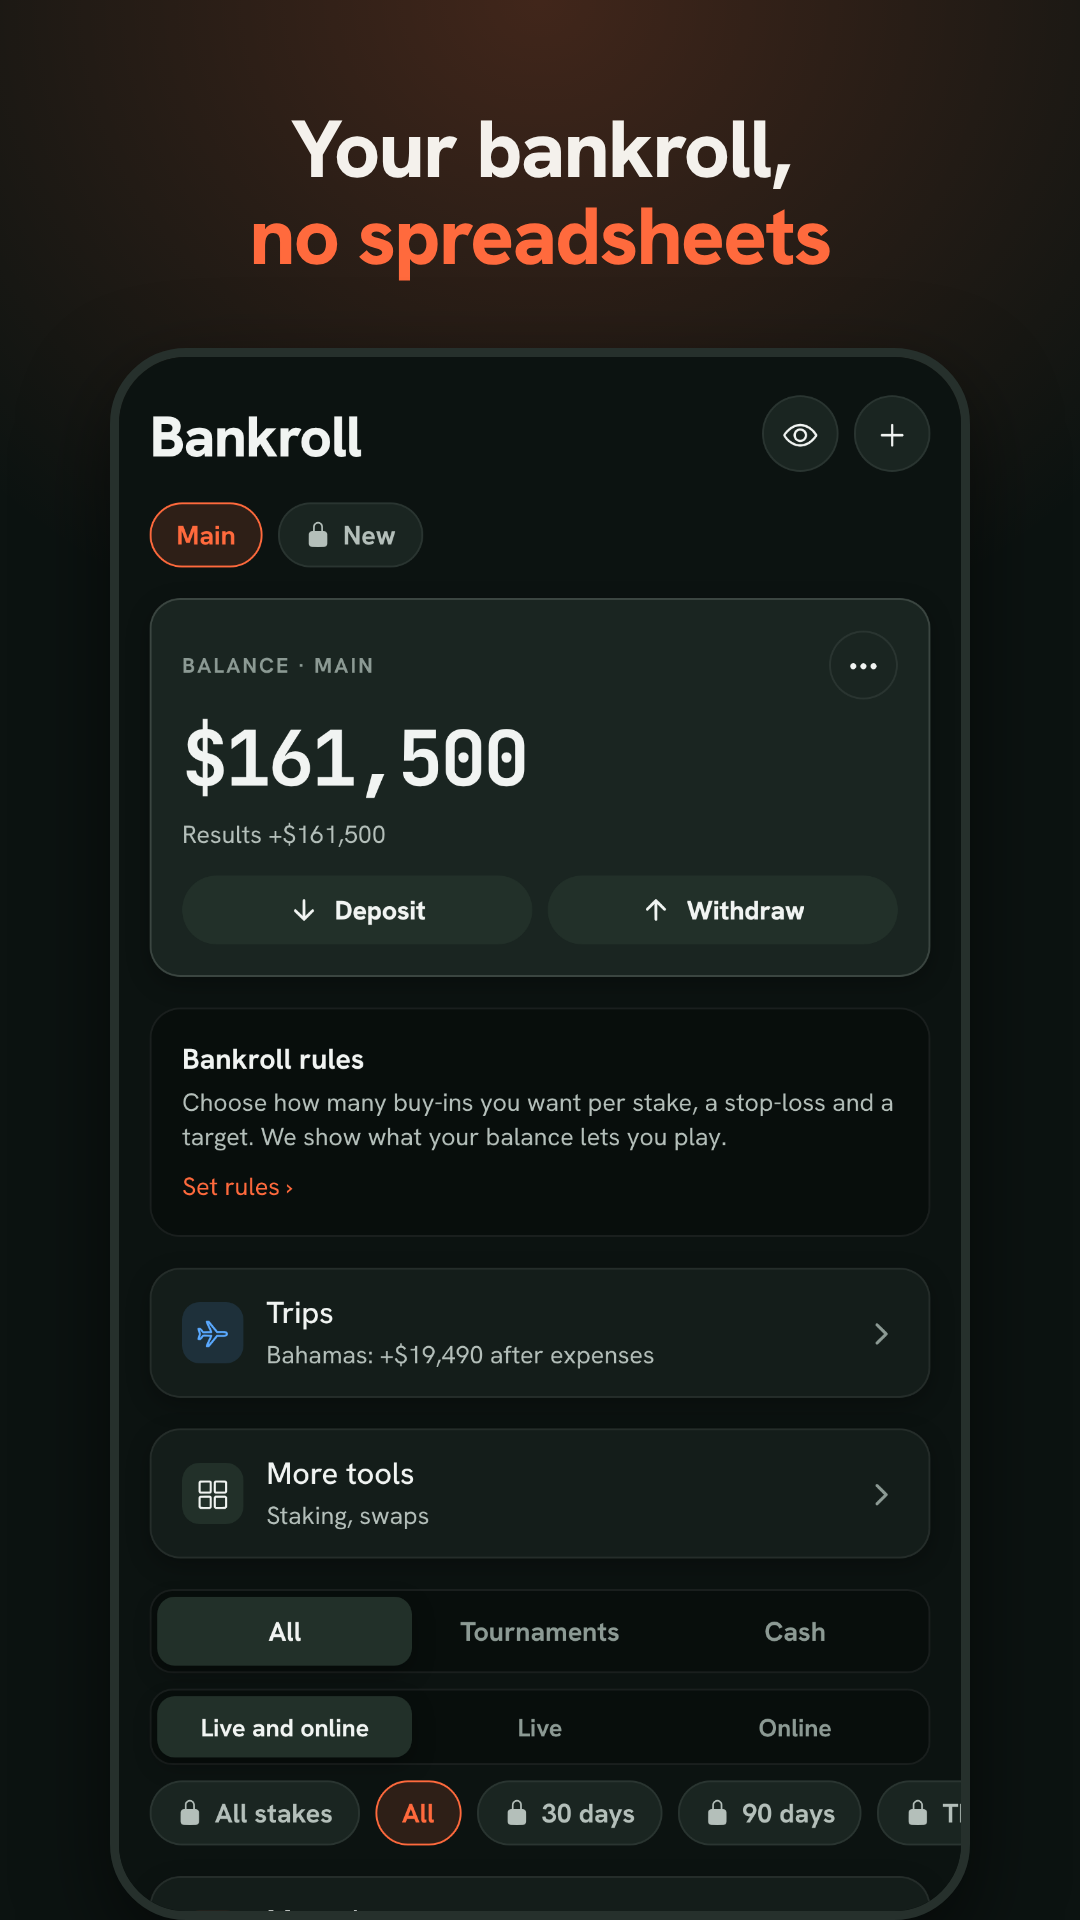
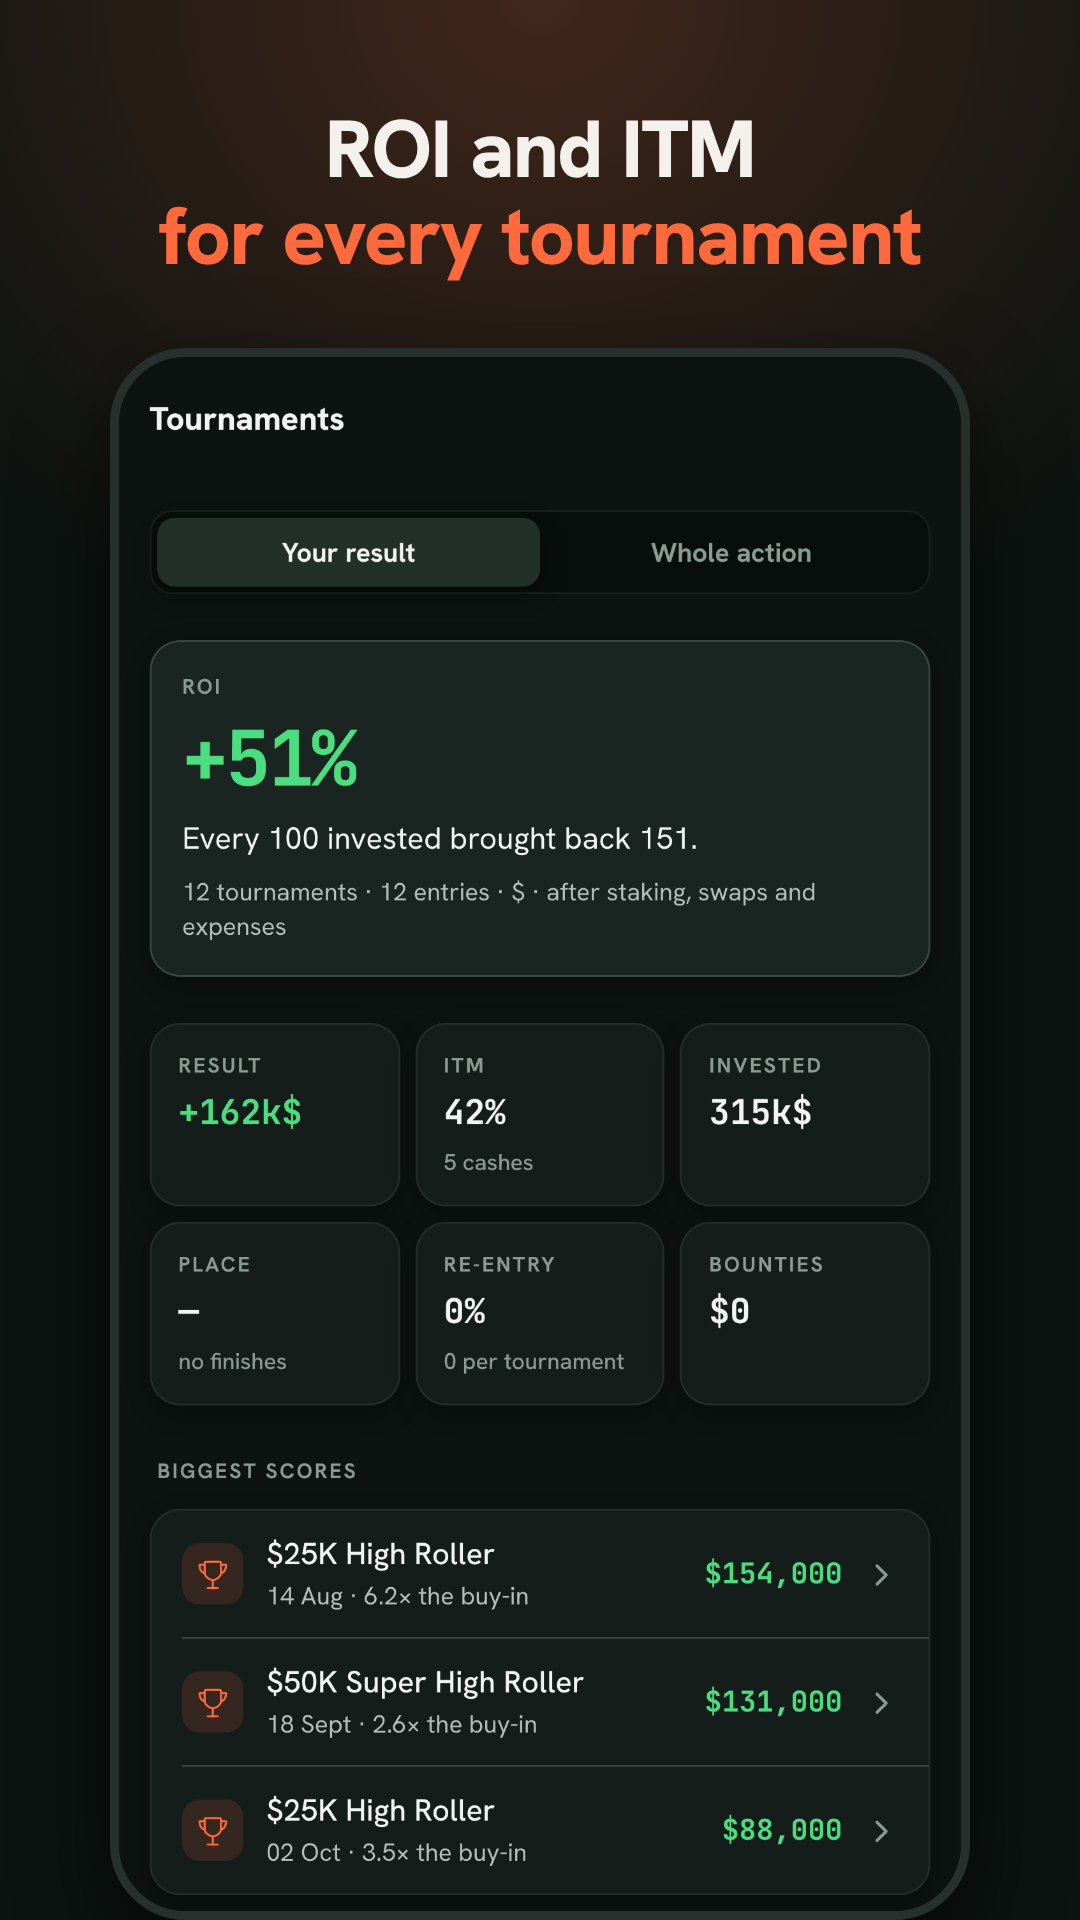
Screenshots from 179da6c: tournament stats and festival recap frames; hide web-only hints; App Store featuring nomination ready to submit
Claude-Session: https://claude.ai/code/session_0177dvFNXGEXkTvQzutfngpT

diff --git a/store/featuring/nomination-apple-december.md b/store/featuring/nomination-apple-december.md
@@ -1,0 +1,60 @@
+# App Store featuring nomination: December launch
+
+Ready to submit the moment the App Store Connect app record exists (Rui's checklist step 14). Submitting needs Rui's yes (checklist step 36). Source draft and background: `/mnt/project-files/launch/destaque-lojas.md`. Every claim below was checked against the integration branch at 179da6c (17 Oct 2026).
+
+Where: App Store Connect → Apps → Sweatbook → **Featuring → Nominations → Create nomination** (or the App Store Connect API with the Admin key from step 15, if it accepts nominations for this account).
+
+## Nomination fields
+
+| Field | Value | Length |
+|---|---|---|
+| Name (internal) | `Sweatbook launch - December live festival season` | 48/60 |
+| Type | App Launch | |
+| Start date | 2026-12-02 | |
+| End date | 2026-12-17 | |
+| Countries | All launch countries in `store/availability.md` (everything except France, mainland China, Russia and the default exclusions listed there). Priority: United States, United Kingdom, Canada, Australia, Portugal, Brazil | |
+| Platform | iOS (iPhone) | |
+| Languages | English (U.S.), Portuguese (Portugal) | |
+| Pre-order | No | |
+| Linked In-App Event | "Your festival diary" (below) | |
+
+**Description** (953/1000):
+
+> Sweatbook is a new notebook for people who play poker live, in casinos and at festivals, where there is no hand history. It launches in early December, when thousands of players travel to the winter festival season, including a two-week high-stakes series in the Bahamas. Players log a hand in a few taps between levels, replay it street by street with pot and stack sizes, and share it as a link that opens a replayer in any browser, so friends and coaches can comment without installing anything. Around that, Sweatbook keeps the whole trip: sessions, a tournament clock with blinds and M, tournament ROI and ITM, bankroll in several currencies, travel expenses, and records of the deals players make in person with backers and friends. It is records and study only: no money moves through the app, there is no gameplay and no betting. Built in Portugal, it launches in English and European Portuguese, with Brazilian Portuguese and Spanish to follow.
+
+**Helpful details** (323/500):
+
+> Built by a live player to use on festival trips. A Live Activity on the Lock Screen and Home Screen widgets show the running session; hands become shareable replays and Instagram Stories; VoiceOver labels; works offline at the table; no account needed. 18+ rating. The free tier logs 3 hands a day and shares without limit.
+
+**Supporting materials** (up to 5 URLs, no login): add only what is live on submission day.
+1. `https://sweatbook.poker` (after Rui's site steps 5 to 9).
+2. A shared sample hand: `https://sweatbook.poker/h/...` (the Início → "Ver uma mão de exemplo" → "Partilhar com amigos" link).
+3. Press page `https://sweatbook.poker/press` (#113, when merged and deployed).
+4. 30-second hand-entry video (Plano de lançamento thread), if ready.
+
+## In-App Event (Special Event)
+
+| Field | Value | Limit |
+|---|---|---|
+| Reference name | Festival diary December 2026 | 64 |
+| Event name | Your festival diary | 19/30 |
+| Short description | Log every hand and share the big ones. | 38/50 |
+| Long description | Log every hand between levels, keep your stack on the Lock Screen and close the trip with a recap Story. | 104/120 |
+| Badge | Special Event (never Competition or Challenge: no contests) | |
+| Event start / end | 2026-12-02 to 2026-12-17; publish start 2026-11-25 | |
+| Deep link | `sweatbook://session` | |
+| Purpose | Appropriate for all users | |
+| Priority | Normal | |
+| Media | Event card 1920×1080 and event details 1080×1920, no casino photos, chips or prize amounts. To render from the app like the screenshots (session screen with the Live Activity), once the record exists | |
+
+## Checks before submitting
+
+- **Bahamas** names a place, not an event. If Rui prefers, use "a two-week high-stakes series in the Caribbean" (the description stays under 1000).
+- Claims verified at 179da6c: tournament mode with blinds/level clock and M (`src/app/tournament.tsx`, session screen), tournament ROI/ITM (`src/app/tournament-stats.tsx`, #127), Live Activity and home widget (`src/lib/lock-screen/`, `src/lib/home-widget/`), multi-currency bankroll, trip expenses (`src/app/trips/`), festival recap Story (#135), free tier 3 hands/day and unlimited shares (`src/billing/plans.ts` `handsPerDay: 3`, `sharesPerDay: null`), VoiceOver labels (`accessibilityLabel` across components).
+- Not claimed: "about ten taps" (waiting for the hand-entry tap audit) and Reduce Motion support (not in the code yet). "Dynamic Type" is left out until someone checks the large text sizes on an iPhone.
+- Spanish and Brazilian Portuguese are "to follow" in the text. If #131 ships pt-BR and es in the launch build, change the last sentence to "launches in English, European and Brazilian Portuguese, and Spanish" and add those languages.
+- A nomination does not guarantee featuring and does not affect App Review.
+
+## Google Play
+
+Not for December (new apps need 8 weeks' notice, the build must already be in the Play Console and there are no ratings yet). The Play nomination goes with the pt-BR update at the end of January, submitted around **1 January 2027**; draft in `/mnt/project-files/launch/destaque-lojas.md` §5.

diff --git a/store/screenshots.md b/store/screenshots.md
@@ -4,27 +4,31 @@
 
 | Store | Required | Size (portrait) | Count |
 |---|---|---|---|
-| App Store | iPhone 6.9" | 1320 × 2868 | 3 to 10, we ship 7 |
+| App Store | iPhone 6.9" | 1320 × 2868 | 3 to 10, we ship 10 |
 | App Store | iPad 13" | only if `supportsTablet` is true; it is false for v1 | — |
-| Google Play | Phone | 1080 × 1920 (Play caps the long side at 2× the short side), PNG/JPEG < 8 MB | 2 to 8, we ship 7 |
+| Google Play | Phone | 1080 × 1920 (Play caps the long side at 2× the short side), PNG/JPEG < 8 MB | 2 to 8, we ship 8 (frames 1..8) |
 | Google Play | Feature graphic | 1024 × 500 | 1 |
 | Google Play | Icon | 512 × 512 PNG, 32-bit | 1 |
 | App Store | Icon | 1024 × 1024 PNG, no alpha (taken from the build) | 1 |
 
 Apple scales the 6.9" set down for smaller iPhones, so one set is enough.
 
-## The six frames
+## The ten frames
 
-Each frame: real app screen inside a device frame, short caption on top, the brand's background colour. Captions in PT-PT and EN (one set per locale).
+Each frame: real app screen inside a device frame, short caption on top, the brand's background colour. Captions in PT-PT and EN (one set per locale). Google Play keeps 1..8.
 
 | # | Screen | Caption EN | Legenda PT |
 |---|---|---|---|
-| 1 | Hand entry mid-action, card picker open | Log a hand in seconds | Regista uma mão em segundos |
-| 2 | Replayer on the river, pot and stacks shown | Replay every street | Revê cada rua |
-| 3 | Share sheet + the web replayer on a friend's phone | Share with a link. No install needed | Partilha com um link. Sem instalar nada |
-| 4 | Tag picker on a saved hand | Tag the hands that matter | Marca as mãos que interessam |
-| 5 | Tournament / session view with level and table remembered | Tournament and level, remembered | Torneio e nível, sempre guardados |
-| 6 | Hand list filtered by tag | Find any hand later | Encontra qualquer mão depois |
+| 1 | Hand entry mid-action, card picker open (`/hand/new`) | Log a hand in seconds | Regista uma mão em segundos |
+| 2 | Replayer at showdown, run it twice with both boards (`/hand/h7`) | Replay every street, even run it twice | Revê cada rua, até o run it twice |
+| 3 | Instagram Story of a hand, question mode (`/story/h1`) | Share it and ask your friends | Partilha e pede a opinião dos amigos |
+| 4 | Hand list with filter chips (`/`) | Find any hand later | Encontra qualquer mão depois |
+| 5 | Live tournament session: clock, stack, level, table notes (`/session`) | Tournament and level, remembered | Torneio e nível, sempre guardados |
+| 6 | Tournament results: ROI, ITM, biggest scores (`/tournament-stats`) | ROI and ITM for every tournament | ROI e ITM de cada torneio |
+| 7 | Bankroll balance, rules and tools (`/bankroll`) | Your bankroll, no spreadsheets | O teu bankroll sem folhas de Excel |
+| 8 | Festival trip with result after expenses (`/trips/t1`) | The whole trip, expenses included | A viagem toda, despesas incluídas |
+| 9 | Festival recap Story card (`/festival-card/t1`) | Wrap up the festival in one Story | Fecha o festival com uma Story |
+| 10 | Players I back: what each one owes (`/backing`) | Everyone you back, in one place | Quem bancas, tudo num só sítio |
 
 Frame 1 is the one most people see in search results; it must show the speed of entry.
 
@@ -37,9 +41,9 @@ npx expo export -p web && npx serve -s dist -l 4173 &   # in the app root
 cd store/screenshots && npm i playwright && node render.mjs http://localhost:4173 out
 ```
 
-`frames.json` holds the route and caption (PT and EN) of each frame, `seed.mjs` the demo hands, sessions and players. Output: `out/{ios,android}/{pt,en}/1..10.png` (10 frames: hand entry, replayer (run it twice), story, hands list, session, bankroll, trip, players, backing, paywall). Apple takes up to 10; Google Play takes up to 8, so `final/android/` keeps only 1..8. The final set is committed in `store/screenshots/final/` (and mirrored in `/mnt/project-files/launch/screenshots/`): iPhone 6.9" 1320×2868 (Apple scales it to the smaller iPhones; no iPad set because `supportsTablet` is false), Play phone 1080×1920, Play feature graphic 1024×500, PT and EN. Upload order = file number.
+`frames.json` holds the route and caption (PT and EN) of each frame, `seed.mjs` the demo hands, sessions and players. Output: `out/{ios,android}/{pt,en}/1..10.png` (10 frames, listed above). Apple takes up to 10; Google Play takes up to 8, so `final/android/` keeps only 1..8. The final set is committed in `store/screenshots/final/` (and mirrored in `/mnt/project-files/launch/screenshots/`): iPhone 6.9" 1320×2868 (Apple scales it to the smaller iPhones; no iPad set because `supportsTablet` is false), Play phone 1080×1920, Play feature graphic 1024×500, PT and EN. Upload order = file number.
 
-Frames: 1 hand entry, 2 replayer, 3 Instagram story share, 4 hand list with tags, 5 live session, 6 bankroll, 7 player notes.
+A frame can list `hide` strings: web-only hints ("Open the app on your phone to post to Instagram") that the phone never shows are hidden before the shot.
 
 ## Feature graphic (Play)
 
